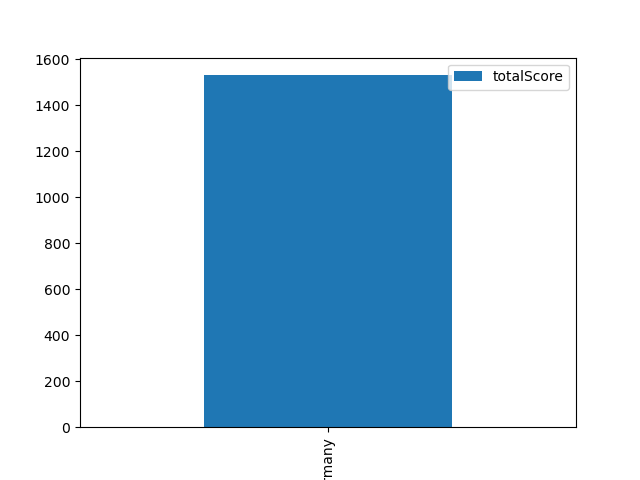
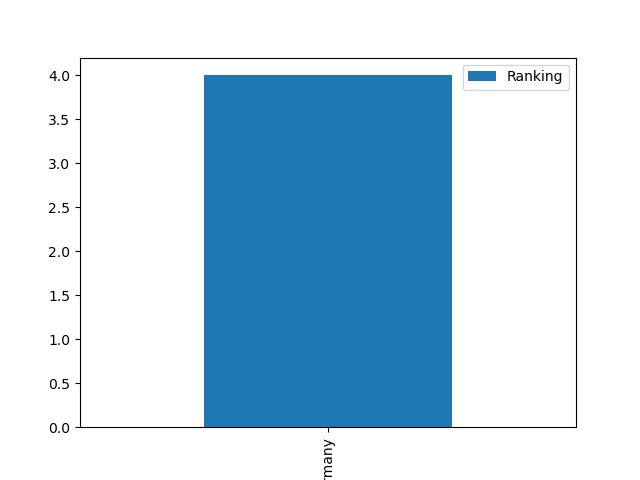
Changes

diff --git a/ZivionFinalDSProject/templates/DataAnalyze2.html b/ZivionFinalDSProject/templates/DataAnalyze2.html
@@ -80,27 +80,22 @@
 </head>
 <body>
     <div class="transbox">
-        <h>The Conection Between Soccer & Knowlege </h>
+        <h>Data Analyze </h>
         <img src="https://upload.wikimedia.org/wikipedia/commons/thumb/a/ad/Knowledge_transfer.svg/998px-Knowledge_transfer.svg.png" width="180" height="120" align="right">
         <table width="200">
             <tr>
-                <th>
+                <td>
                     <x>Fifa</x>
-                    {{ dataaa.to_html(classes="table table-striped") | safe}}
-
+                        {{ dataaa.to_html(classes="table table-striped") | safe}}
+                    </div>
                 </th>
-                <th>
+                <td>
                     <x>Knowlege Rating</x>
                     {{ data222.to_html(classes="table table-striped") | safe}}
-                </th>
-            </tr>
-            <tr>
-                <td>
-                    <img src={{image}} alt="my plot"><img />
                 </td>
             </tr>
         </table>
-
+         <img src={{image2}} alt="my plot"><img />
     </div>
-    </body>
+</body>
 {% endblock %}j

diff --git a/ZivionFinalDSProject/templates/DataAnalyze1.html b/ZivionFinalDSProject/templates/DataAnalyze1.html
@@ -95,7 +95,7 @@
                 </td>
             </tr>
         </table>
-         <img src={{image}} alt="my plot"><img />
+         <img src={{image1}} alt="my plot"><img />
     </div>
 </body>
 {% endblock %}j

diff --git a/ZivionFinalDSProject/views.py b/ZivionFinalDSProject/views.py
@@ -314,9 +314,10 @@ def data2():
     form = QueryFormStructure(request.form)
     b = pd.read_csv(path.join(path.dirname(__file__), 'static\\Data\\data2.csv'))
     if (request.method == 'POST' and form.validate()):
-        imagePath = "/static/content/output.png"
+        imagePath = "/static/content/output2.png"
         bb = b.index[b['Name'] == form.name.data].tolist()
-        data222 = b.iloc[bb]
+        bbb = int(bb[0])
+        data222 = b.iloc[[0,bbb,100]]
         plot = data222.plot(kind='bar',x='Name',y='Ranking')
         fig = plot.get_figure()
         fig.savefig("ZivionFinalDSProject" + imagePath)
@@ -329,7 +330,7 @@ def data2():
         repository_name='DataAnalyze2',
         data222 = b.iloc[b.index[b['Name'] == form.name.data].tolist()],
         dataaa=a.iloc[a.index[a['name'] == form.name.data].tolist()],
-        image = imagePath
+        image2 = imagePath
         )
        
             # Here you should put what to do (or were to go) if registration was good
@@ -381,10 +382,11 @@ def data1():
     form = QueryFormStructure(request.form)
     x  = pd.read_csv(path.join(path.dirname(__file__), 'static\\Data\\data1.csv'))
     if (request.method == 'POST' and form.validate()):
-        imagePath = "/static/content/output.png"
+        imagePath = "/static/content/output1.png"
         xx = x.index[x['name'] == form.name.data].tolist()
-        data111 = x.iloc[xx]
-        plot = data111.plot(kind='bar',x='name',y='totalScore')
+        xxx = int(xx[0])
+        data111 = x.iloc[[0,xxx,50]]
+        plot = data111.plot.bar(x='name')
         fig = plot.get_figure()
         fig.savefig("ZivionFinalDSProject" + imagePath)
         return render_template(
@@ -395,7 +397,7 @@ def data1():
         repository_name='DataAnalyze1',
         data111 = x.iloc[x.index[x['name'] == form.name.data].tolist()],
         dataaa=a.iloc[a.index[a['name'] == form.name.data].tolist()],
-        image = imagePath,
+        image1 = imagePath,
         )
 
     return render_template(
